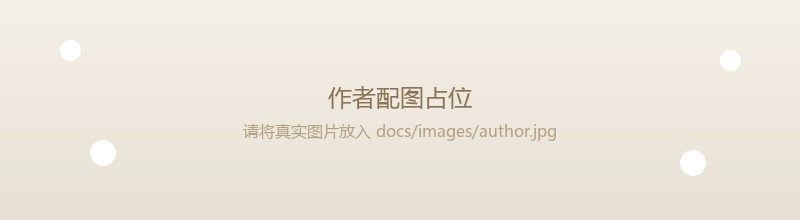
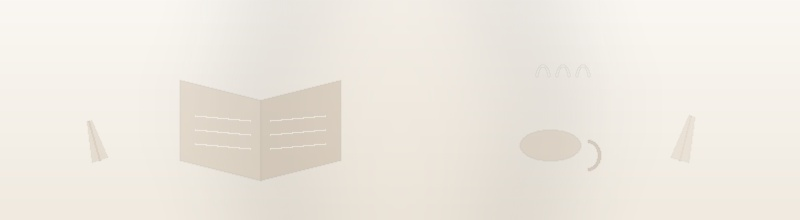
Add refined abstract illustrations
- Add scripts/generate_illustrations.py to generate themed illustrations
- Regenerate cover.jpg, author.jpg, traits.jpg with refined abstract art
- Use warm beige palette, organic shapes, and no placeholder text

diff --git a/scripts/generate_illustrations.py b/scripts/generate_illustrations.py
@@ -1,0 +1,224 @@
+from PIL import Image, ImageDraw, ImageFilter
+import os
+import math
+
+images_dir = "docs/images"
+os.makedirs(images_dir, exist_ok=True)
+
+# 配色方案：暖调、低饱和
+COLORS = {
+    'bg1': (250, 247, 242),
+    'bg2': (240, 234, 224),
+    'bg3': (232, 224, 212),
+    'accent1': (139, 115, 85),
+    'accent2': (166, 142, 112),
+    'accent3': (194, 174, 148),
+    'light': (255, 252, 248),
+    'soft': (220, 208, 192),
+}
+
+
+def radial_gradient(size, center_color, edge_color):
+    """创建径向渐变"""
+    img = Image.new('RGB', size)
+    draw = ImageDraw.Draw(img)
+    cx, cy = size[0] // 2, size[1] // 2
+    max_dist = math.sqrt(cx**2 + cy**2)
+    for y in range(size[1]):
+        for x in range(0, size[0], 2):
+            dist = math.sqrt((x-cx)**2 + (y-cy)**2)
+            ratio = dist / max_dist
+            r = int(center_color[0] + (edge_color[0] - center_color[0]) * ratio)
+            g = int(center_color[1] + (edge_color[1] - center_color[1]) * ratio)
+            b = int(center_color[2] + (edge_color[2] - center_color[2]) * ratio)
+            draw.point([(x, y), (x+1, y)], fill=(r, g, b))
+    return img
+
+
+def linear_gradient(size, top_color, bottom_color):
+    """创建线性渐变"""
+    img = Image.new('RGB', size)
+    draw = ImageDraw.Draw(img)
+    for y in range(size[1]):
+        ratio = y / size[1]
+        r = int(top_color[0] + (bottom_color[0] - top_color[0]) * ratio)
+        g = int(top_color[1] + (bottom_color[1] - top_color[1]) * ratio)
+        b = int(top_color[2] + (bottom_color[2] - top_color[2]) * ratio)
+        draw.line([(0, y), (size[0], y)], fill=(r, g, b))
+    return img
+
+
+def add_soft_blur_circle(img, center, radius, color, blur=20):
+    """添加柔和模糊圆"""
+    overlay = Image.new('RGBA', img.size, (0, 0, 0, 0))
+    draw = ImageDraw.Draw(overlay)
+    x, y = center
+    draw.ellipse([x-radius, y-radius, x+radius, y+radius], fill=color)
+    overlay = overlay.filter(ImageFilter.GaussianBlur(blur))
+    img = img.convert('RGBA')
+    img = Image.alpha_composite(img, overlay)
+    return img.convert('RGB')
+
+
+def draw_leaf(draw, x, y, length, width, angle, color, width_line=2):
+    """绘制有机叶片"""
+    rad = math.radians(angle)
+    x1 = x + length * math.cos(rad)
+    y1 = y + length * math.sin(rad)
+    perp = math.radians(angle + 90)
+    w = width / 2
+    ax = x + w * math.cos(perp)
+    ay = y + w * math.sin(perp)
+    bx = x - w * math.cos(perp)
+    by = y - w * math.sin(perp)
+    cx = x1 + (w*0.3) * math.cos(perp)
+    cy = y1 + (w*0.3) * math.sin(perp)
+    dx = x1 - (w*0.3) * math.cos(perp)
+    dy = y1 - (w*0.3) * math.sin(perp)
+    draw.polygon([(ax, ay), (cx, cy), (dx, dy), (bx, by)], fill=color)
+    draw.line([(x, y), (x1, y1)], fill=(*color[:3], 80), width=width_line)
+
+
+def composite_overlay(img, overlay):
+    """合成半透明图层"""
+    overlay = overlay.filter(ImageFilter.GaussianBlur(0.5))
+    img = img.convert('RGBA')
+    img = Image.alpha_composite(img, overlay)
+    return img.convert('RGB')
+
+
+def make_cover():
+    """封面图：感知之光"""
+    size = (800, 280)
+    img = radial_gradient(size, COLORS['bg1'], COLORS['bg3'])
+
+    img = add_soft_blur_circle(img, (400, 140), 180, (*COLORS['bg2'], 120), 60)
+    img = add_soft_blur_circle(img, (400, 140), 120, (*COLORS['soft'], 80), 40)
+
+    overlay = Image.new('RGBA', size, (0, 0, 0, 0))
+    draw = ImageDraw.Draw(overlay)
+
+    # 抽象人物头部轮廓
+    draw.ellipse([360, 100, 440, 180], fill=(*COLORS['accent3'], 60))
+    draw.ellipse([370, 110, 430, 170], fill=(*COLORS['bg2'], 90))
+
+    # 感知波纹
+    for i, r in enumerate([90, 130, 170, 210]):
+        alpha = 25 - i * 4
+        draw.ellipse([400-r, 140-r, 400+r, 140+r], outline=(*COLORS['accent2'], alpha), width=1)
+
+    # 植物叶片
+    draw_leaf(draw, 680, 220, 70, 28, -70, (*COLORS['accent3'], 70))
+    draw_leaf(draw, 650, 240, 55, 22, -60, (*COLORS['accent2'], 55))
+    draw_leaf(draw, 120, 220, 65, 24, -110, (*COLORS['accent3'], 65))
+    draw_leaf(draw, 160, 240, 50, 20, -120, (*COLORS['accent2'], 50))
+
+    # 漂浮光点
+    dots = [((250, 80), 5), ((550, 70), 4), ((680, 120), 3), ((120, 130), 4), ((720, 180), 3), ((90, 190), 2.5)]
+    for pos, r in dots:
+        draw.ellipse([pos[0]-r, pos[1]-r, pos[0]+r, pos[1]+r], fill=(*COLORS['light'], 200))
+
+    # 顶部柔和光线
+    draw.polygon([(0, 0), (300, 0), (150, 280), (0, 280)], fill=(*COLORS['light'], 25))
+    draw.polygon([(500, 0), (800, 0), (800, 280), (650, 280)], fill=(*COLORS['light'], 20))
+
+    img = composite_overlay(img, overlay)
+    img.save(os.path.join(images_dir, 'cover.jpg'), quality=95)
+    print("Generated cover.jpg")
+
+
+def make_author():
+    """作者图：静谧阅读"""
+    size = (800, 220)
+    img = linear_gradient(size, COLORS['bg1'], COLORS['bg2'])
+
+    overlay = Image.new('RGBA', size, (0, 0, 0, 0))
+    draw = ImageDraw.Draw(overlay)
+
+    # 左侧书本
+    book_x, book_y = 180, 80
+    draw.polygon([(book_x, book_y), (book_x+80, book_y+20), (book_x+80, book_y+100), (book_x, book_y+80)], fill=(*COLORS['accent3'], 80))
+    draw.polygon([(book_x+80, book_y+20), (book_x+160, book_y), (book_x+160, book_y+80), (book_x+80, book_y+100)], fill=(*COLORS['accent2'], 70))
+    draw.line([(book_x+80, book_y+20), (book_x+80, book_y+100)], fill=(*COLORS['accent1'], 60), width=2)
+    for i in range(3):
+        y = book_y + 35 + i * 14
+        draw.line([(book_x+15, y), (book_x+70, y+5)], fill=(*COLORS['light'], 120), width=2)
+        draw.line([(book_x+90, y+5), (book_x+145, y)], fill=(*COLORS['light'], 120), width=2)
+
+    # 右侧茶杯
+    cup_x, cup_y = 520, 90
+    draw.ellipse([cup_x, cup_y+40, cup_x+60, cup_y+70], fill=(*COLORS['accent3'], 70))
+    draw.arc([cup_x+55, cup_y+50, cup_x+80, cup_y+80], 270, 90, fill=(*COLORS['accent2'], 80), width=3)
+    for i, offset in enumerate([0, 20, 40]):
+        x = cup_x + 15 + offset
+        draw.arc([x, cup_y-25, x+15, cup_y+10], 200, 340, fill=(*COLORS['light'], 80), width=2)
+
+    # 装饰叶片
+    draw_leaf(draw, 680, 160, 45, 18, -75, (*COLORS['accent3'], 50))
+    draw_leaf(draw, 100, 160, 40, 16, -105, (*COLORS['accent2'], 45))
+
+    img = add_soft_blur_circle(img, (400, 110), 150, (*COLORS['soft'], 60), 50)
+    img = composite_overlay(img, overlay)
+    img.save(os.path.join(images_dir, 'author.jpg'), quality=95)
+    print("Generated author.jpg")
+
+
+def make_traits():
+    """四种样貌图：四重视角"""
+    size = (800, 220)
+    img = linear_gradient(size, COLORS['bg1'], COLORS['bg2'])
+
+    overlay = Image.new('RGBA', size, (0, 0, 0, 0))
+    draw = ImageDraw.Draw(overlay)
+
+    centers = [(140, 110), (310, 110), (480, 110), (650, 110)]
+
+    # 1. 过度刺激 - 波纹与闪电
+    cx, cy = centers[0]
+    draw.ellipse([cx-45, cy-45, cx+45, cy+45], fill=(*COLORS['bg2'], 120))
+    for r in [15, 28, 40]:
+        draw.ellipse([cx-r, cy-r, cx+r, cy+r], outline=(*COLORS['accent2'], 60), width=1)
+    draw.polygon([(cx-5, cy-25), (cx+8, cy-5), (cx+2, cy-5), (cx+6, cy+20), (cx-8, cy), (cx-2, cy), (cx-5, cy-25)], fill=(*COLORS['accent1'], 80))
+
+    # 2. 情绪强烈 - 心形
+    cx, cy = centers[1]
+    draw.ellipse([cx-45, cy-45, cx+45, cy+45], fill=(*COLORS['bg2'], 120))
+    heart = []
+    for t in range(100):
+        t_val = t / 100.0 * 2 * math.pi
+        x = 16 * math.sin(t_val)**3
+        y = -(13 * math.cos(t_val) - 5 * math.cos(2*t_val) - 2 * math.cos(3*t_val) - math.cos(4*t_val))
+        heart.append((cx + x*1.8, cy + y*1.8 - 5))
+    draw.polygon(heart, fill=(*COLORS['accent2'], 85))
+
+    # 3. 高度共情 - 连接
+    cx, cy = centers[2]
+    draw.ellipse([cx-45, cy-45, cx+45, cy+45], fill=(*COLORS['bg2'], 120))
+    draw.ellipse([cx-22, cy-8, cx-8, cy+8], fill=(*COLORS['accent3'], 80))
+    draw.ellipse([cx+8, cy-8, cx+22, cy+8], fill=(*COLORS['accent3'], 80))
+    draw.ellipse([cx-6, cy-6, cx+6, cy+6], fill=(*COLORS['accent1'], 90))
+    draw.line([(cx-15, cy), (cx-6, cy)], fill=(*COLORS['accent2'], 100), width=2)
+    draw.line([(cx+6, cy), (cx+15, cy)], fill=(*COLORS['accent2'], 100), width=2)
+
+    # 4. 追求深度 - 阶梯/星光
+    cx, cy = centers[3]
+    draw.ellipse([cx-45, cy-45, cx+45, cy+45], fill=(*COLORS['bg2'], 120))
+    for i in range(4):
+        y = cy + 25 - i * 14
+        x1 = cx - 25 + i * 5
+        x2 = cx + 25 - i * 5
+        draw.line([(x1, y), (x2, y)], fill=(*COLORS['accent2'], 80), width=3)
+    draw.ellipse([cx-4, cy-38, cx+4, cy-30], fill=(*COLORS['light'], 200))
+    draw.ellipse([cx-25, cy-25, cx-21, cy-21], fill=(*COLORS['light'], 120))
+    draw.ellipse([cx+20, cy-28, cx+24, cy-24], fill=(*COLORS['light'], 100))
+
+    img = add_soft_blur_circle(img, (400, 110), 200, (*COLORS['soft'], 40), 60)
+    img = composite_overlay(img, overlay)
+    img.save(os.path.join(images_dir, 'traits.jpg'), quality=95)
+    print("Generated traits.jpg")
+
+
+if __name__ == "__main__":
+    make_cover()
+    make_author()
+    make_traits()
